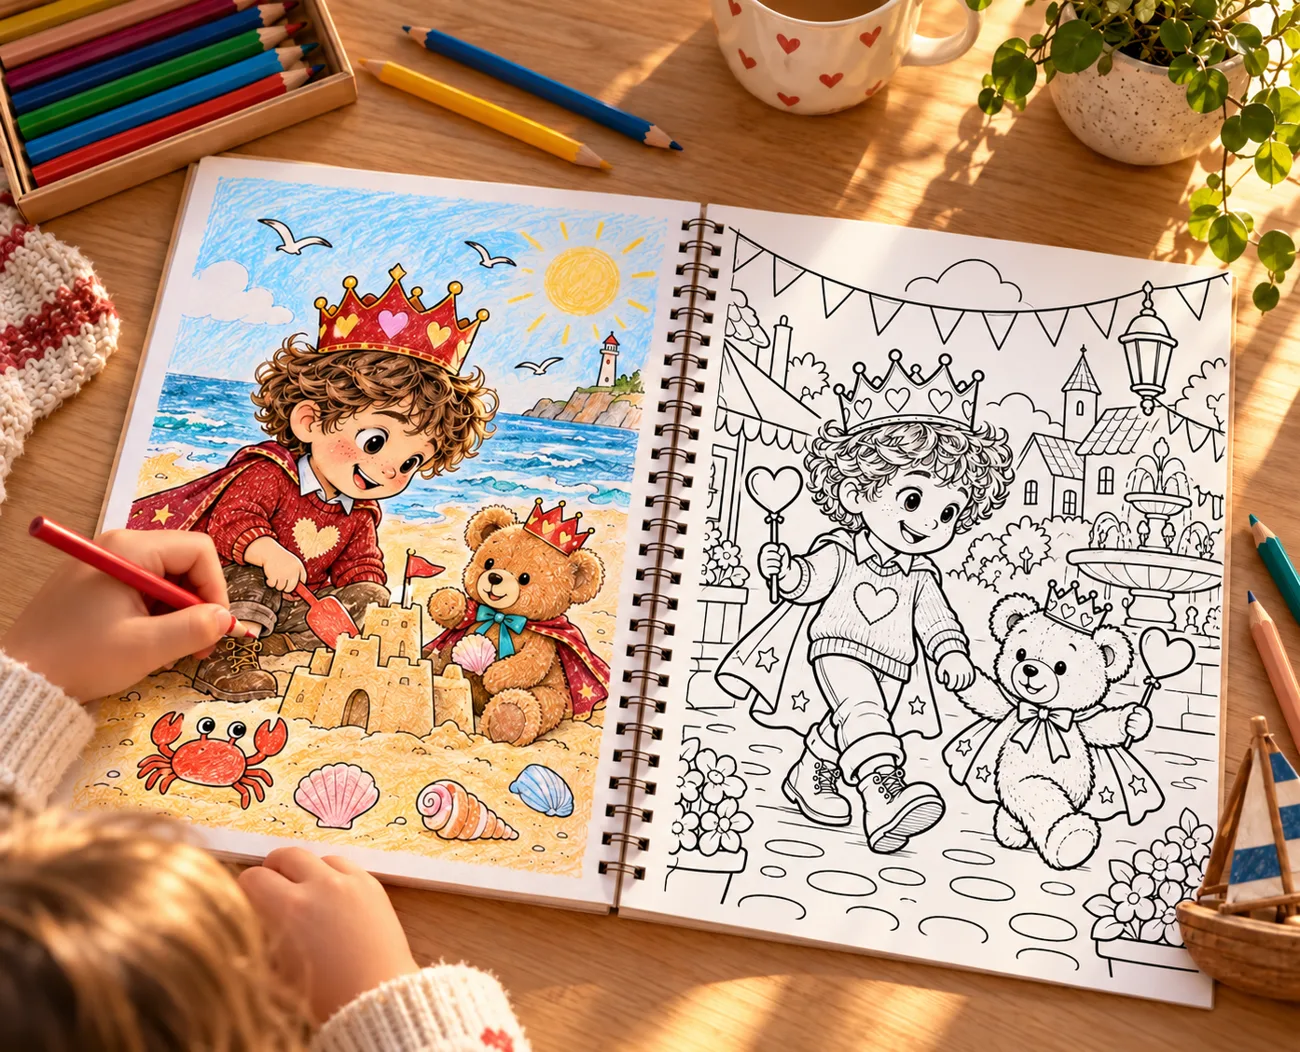
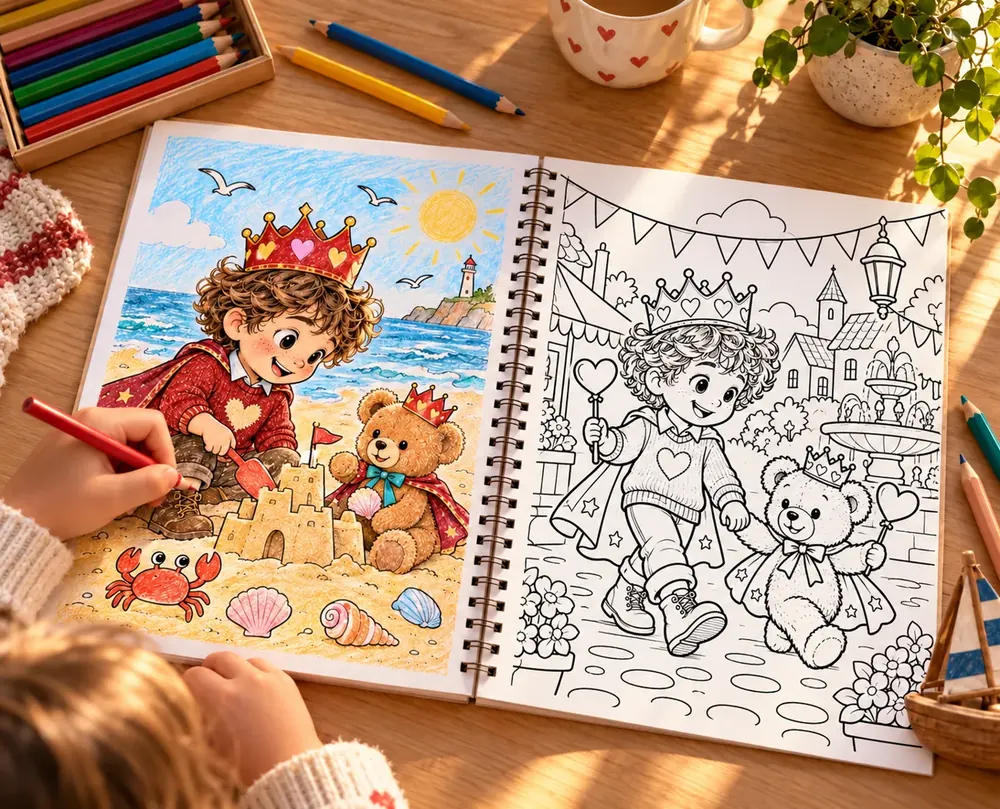
Images de l'accueil allégées (couvertures 800 px, cahier) et .webp servis en image/webp
Claude-Session: https://claude.ai/code/session_01GtotwTBzomeNM5Jpbpi6mC

diff --git a/static/vitrine.html b/static/vitrine.html
@@ -748,7 +748,7 @@ __LDJSON__
         <div class="h-flt" style="--z:10px;--d:0"><i class="h-r"><img decoding="async" src="/static/vitrine/noe_01_d.webp" alt=""><span class="h-txt">C’est une petite étoile, pas plus grande qu’une pomme. « Je m’appelle Luma. J’ai glissé de mon coin de ciel et je ne retrouve plus le chemin. » Noé soulève son ours. « Alors, nous allons t’aider tous les deux ! »<em>2</em></span></i><i class="h-v h-pg"><img decoding="async" src="/static/vitrine/noe_02_g.webp" alt=""><span class="h-txt">Luma secoue une pointe. Une poussière brillante tourbillonne autour de Noé : le voilà dans une combinaison, avec un casque tout rond ! Il installe son ours sur son sac. Devant la fenêtre, un sentier de lumière se déroule.<em>3</em></span></i></div>
         <div class="h-couv">
           <div class="h-face">
-            <img decoding="async" src="/static/vitrine/noe_00.webp" alt="">
+            <img decoding="async" src="/static/vitrine/noe_00.webp?v=3" alt="">
           </div>
           <i class="h-v garde"><b>Noé</b><span>et la poussière d'étoiles</span><em>Une aventure de<br>Mon Héros du Mois</em></i>
         </div>
@@ -803,9 +803,9 @@ __LDJSON__
     <h2>Feuilletez quelques-uns de nos livres</h2>
     <p class="sous">Trois exemples parmi tous ceux qu'on peut créer. Le vôtre aura son histoire à lui, avec votre enfant en héros.</p>
     <div class="etal" id="etal">
-      <button type="button" data-l="noe"><span class="cv"><img src="/static/vitrine/noe_00.webp" alt="" loading="lazy"></span><b>Noé</b><span>La poussière d'étoiles</span></button>
-      <button type="button" data-l="leo"><span class="cv"><img src="/static/vitrine/leo_00.webp?v=2" alt="" loading="lazy"></span><b>Léo</b><span>La forêt enchantée</span></button>
-      <button type="button" data-l="mila"><span class="cv"><img src="/static/vitrine/mila_00.webp" alt="" loading="lazy"></span><b>Mila</b><span>Le secret de l'océan</span></button>
+      <button type="button" data-l="noe"><span class="cv"><img src="/static/vitrine/noe_00.webp?v=3" alt="" loading="lazy"></span><b>Noé</b><span>La poussière d'étoiles</span></button>
+      <button type="button" data-l="leo"><span class="cv"><img src="/static/vitrine/leo_00.webp?v=3" alt="" loading="lazy"></span><b>Léo</b><span>La forêt enchantée</span></button>
+      <button type="button" data-l="mila"><span class="cv"><img src="/static/vitrine/mila_00.webp?v=3" alt="" loading="lazy"></span><b>Mila</b><span>Le secret de l'océan</span></button>
     </div>
     <div class="lecteur" id="lecteur" hidden>
     <p class="sous" id="sousLivre"></p>
@@ -834,8 +834,8 @@ __LDJSON__
 <section class="bloc coloriage" id="coloriage" aria-labelledby="coloT">
   <div class="wrap colo">
     <div class="colo-photos">
-      <img class="grande" src="/static/vitrine/colo_photo_1.webp" alt="Le cahier de coloriage ouvert : une page déjà coloriée par l'enfant et une page à colorier avec son doudou" loading="lazy" width="1300" height="1052">
-      <img src="/static/vitrine/colo_photo_3.webp" alt="Le cahier de coloriage de Léo posé sur une table, avec des crayons de couleur" loading="lazy" width="1004" height="1300">
+      <img class="grande" src="/static/vitrine/colo_photo_1.webp?v=2" alt="Le cahier de coloriage ouvert : une page déjà coloriée par l'enfant et une page à colorier avec son doudou" loading="lazy" width="1000" height="809">
+      <img src="/static/vitrine/colo_photo_3.webp?v=2" alt="Le cahier de coloriage de Léo posé sur une table, avec des crayons de couleur" loading="lazy" width="800" height="1036">
       <img src="/static/vitrine/colo_photo_4.webp" alt="Le cahier de coloriage de Léa, au jardin avec son ours en peluche" loading="lazy" width="867" height="1300">
     </div>
     <div>
@@ -1051,7 +1051,7 @@ __BARRE__
   function livrePages(id, T, sous, alt) {
     const pg = n => `<img src="${V}${id}_p${pad(n)}.webp" alt="" loading="lazy">`;
     return { sous, n: T.length / 2, img: i => V + `${id}_p${pad(2 * i - 1)}.webp`, mini: i => V + `${id}_${pad(i)}_s.webp?v=2`, pdf: true,
-      couv: `<div class="face recto couv"><img loading="lazy" decoding="async" src="${V}${id}_00.webp?v=2" alt="${alt}"></div>`,
+      couv: `<div class="face recto couv"><img loading="lazy" decoding="async" src="${V}${id}_00.webp?v=3" alt="${alt}"></div>`,
       gauche: i => pg(2 * i - 1),
       droite: i => ({ cls: 'mi', html: pg(2 * i) }),
       dos: pg(19), dosImg: true,

diff --git a/app.py b/app.py
@@ -2,6 +2,9 @@
 """Serveur « Mon Héros du Mois » : éditeur d'avatars -> histoire -> storyboard -> planche personnages (validée)
 -> aperçu couverture + 2 doubles pages (validé) -> livre complet de 20 pages + contrôle qualité.
 Lancement : python app.py   puis ouvrir http://localhost:8000"""
+import mimetypes
+mimetypes.add_type("image/webp", ".webp")      # sinon certains serveurs envoient les .webp en application/octet-stream
+mimetypes.add_type("image/avif", ".avif")
 import os, sys, json, uuid, threading, time, shutil, traceback, base64, io, re
 from pathlib import Path
 from flask import Flask, request, jsonify, send_file, send_from_directory, abort, redirect, Response
